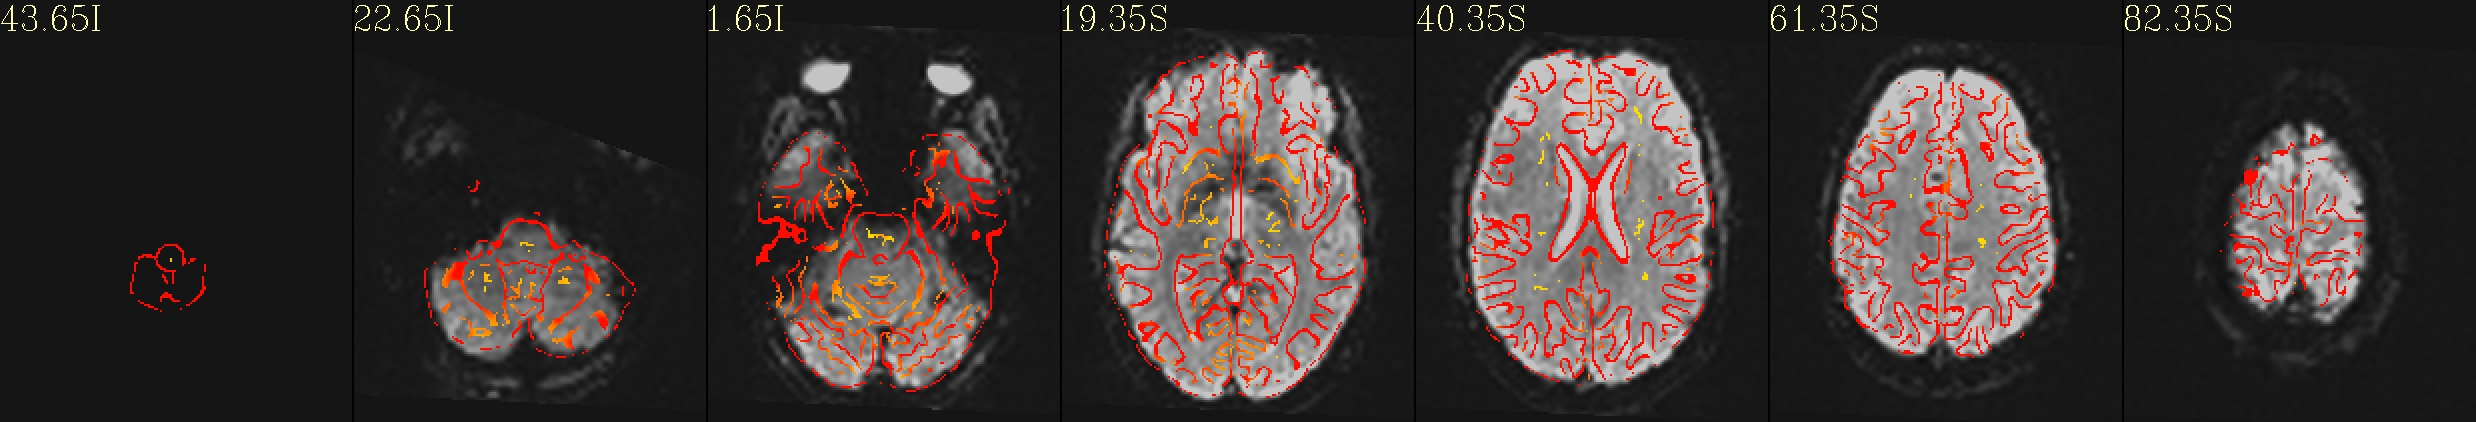
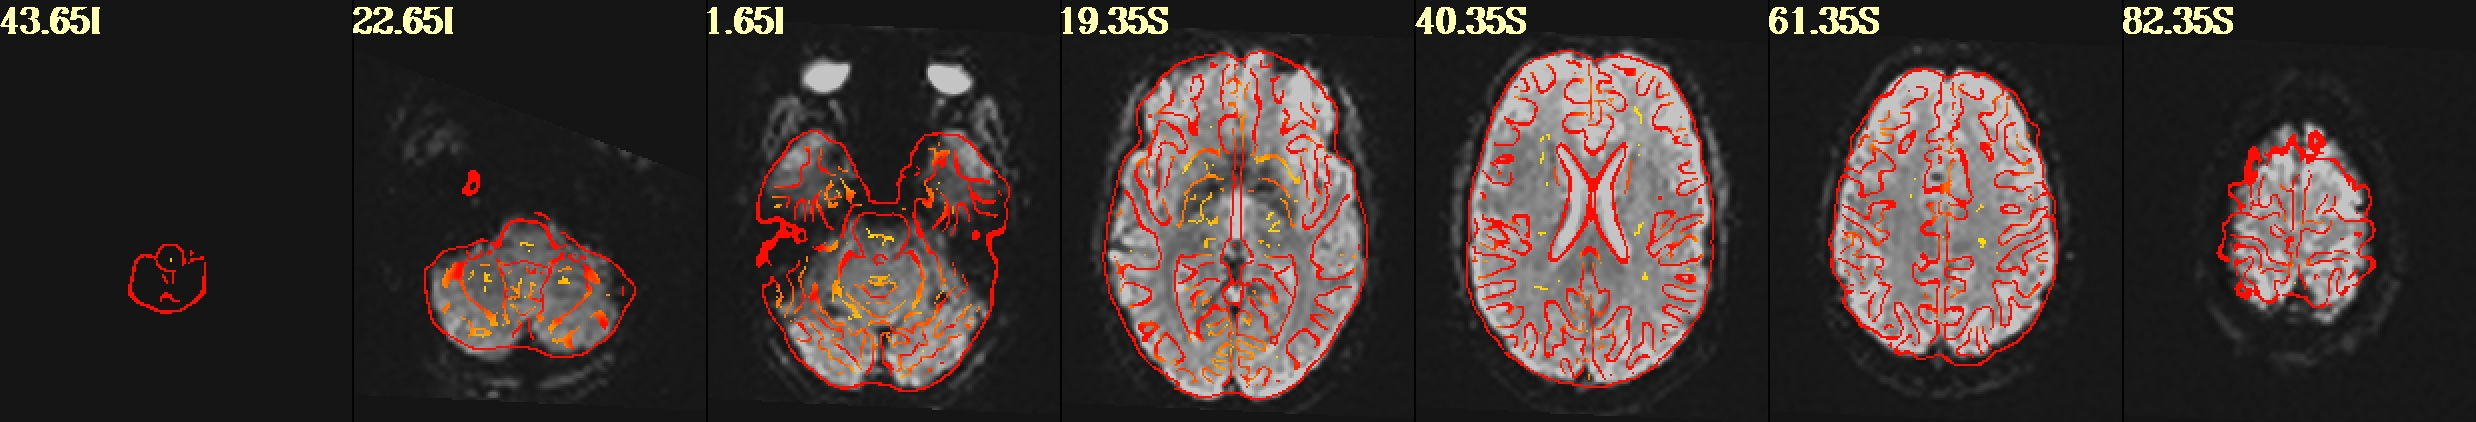
Difference of Gaussian

diff --git a/README.md b/README.md
@@ -20,6 +20,7 @@ The [@chauffeur_afni](https://afni.nimh.nih.gov/pub/dist/doc/program_help/@chauf
     -ulay              example_func2highres.nii.gz  \
     -olay              highres.nii.gz               \
     -box_focus_slices  highres.nii.gz               \
+    -use_olay_grid     NN                           \
     -prefix            img_AEAC
 ```
 
@@ -29,17 +30,26 @@ The [@chauffeur_afni](https://afni.nimh.nih.gov/pub/dist/doc/program_help/@chauf
 
 ## MRIcroGL
 
-Recent versions (since v1.2.20211111) can create edge maps using the `Find Edges` command from the `Options` button or with the `sobel()` scripting function. This applies a basic [Sobel filter](https://en.wikipedia.org/wiki/Sobel_operator). MRIcroGL can also be compiled to apply the modified Sobel suggested by [Asjad and Deriche](https://www.researchgate.net/publication/283280465_A_new_approach_for_salt_dome_detection_using_a_3D_multidirectional_edge_detector
-), though this appears to have little influence in practice.
+Recent versions (since v1.2.20210909) can create edge maps using the `Find Edges` command from the `Options` button or with the `dog()` scripting function. This applies a basic [Difference of Gaussian](https://en.wikipedia.org/wiki/Difference_of_Gaussians) filter. The filter Gaussians with a FWHM of 2.5mm and 4mm (matching the [typical thickness](https://www.pnas.org/content/97/20/11050) of the human cortex, with [K~1.6](https://en.wikipedia.org/wiki/Difference_of_Gaussians) approximating the [Laplacian of Gaussian](https://en.wikipedia.org/wiki/Blob_detection#The_Laplacian_of_Gaussian).
+
 ```
 import gl
 gl.resetdefaults()
 gl.loadimage('highres.nii.gz')
 gl.overlayload('example_func2highres.nii.gz')
+gl.dog(1)
+gl.opacity(1,0)
 gl.colorbarposition(0)
-gl.opacity(1,1)
-gl.sobel(1)
-gl.mosaic('H 0.2 S 0.35 0.45 0.55 0.65 C  0.35 0.45 0.55 0.65 A 0.35 0.45 0.55 0.65 ')
+gl.mosaic("A 0.35 0.45 0.55 0.65; S 0.35 0.45 0.55 0.65; C  0.35 0.45 0.55 0.65")
 ```
 
 ![MRIcroGL](GL.png)
+
+
+## niimath
+
+[niimath](https://github.com/rordenlab/niimath) can create an edge map using the same method as MRIcroGL:
+
+```
+niimath example_func2highres -clamp 0 -uclamp 100 -dog1 2 4 funcEdge
+```
